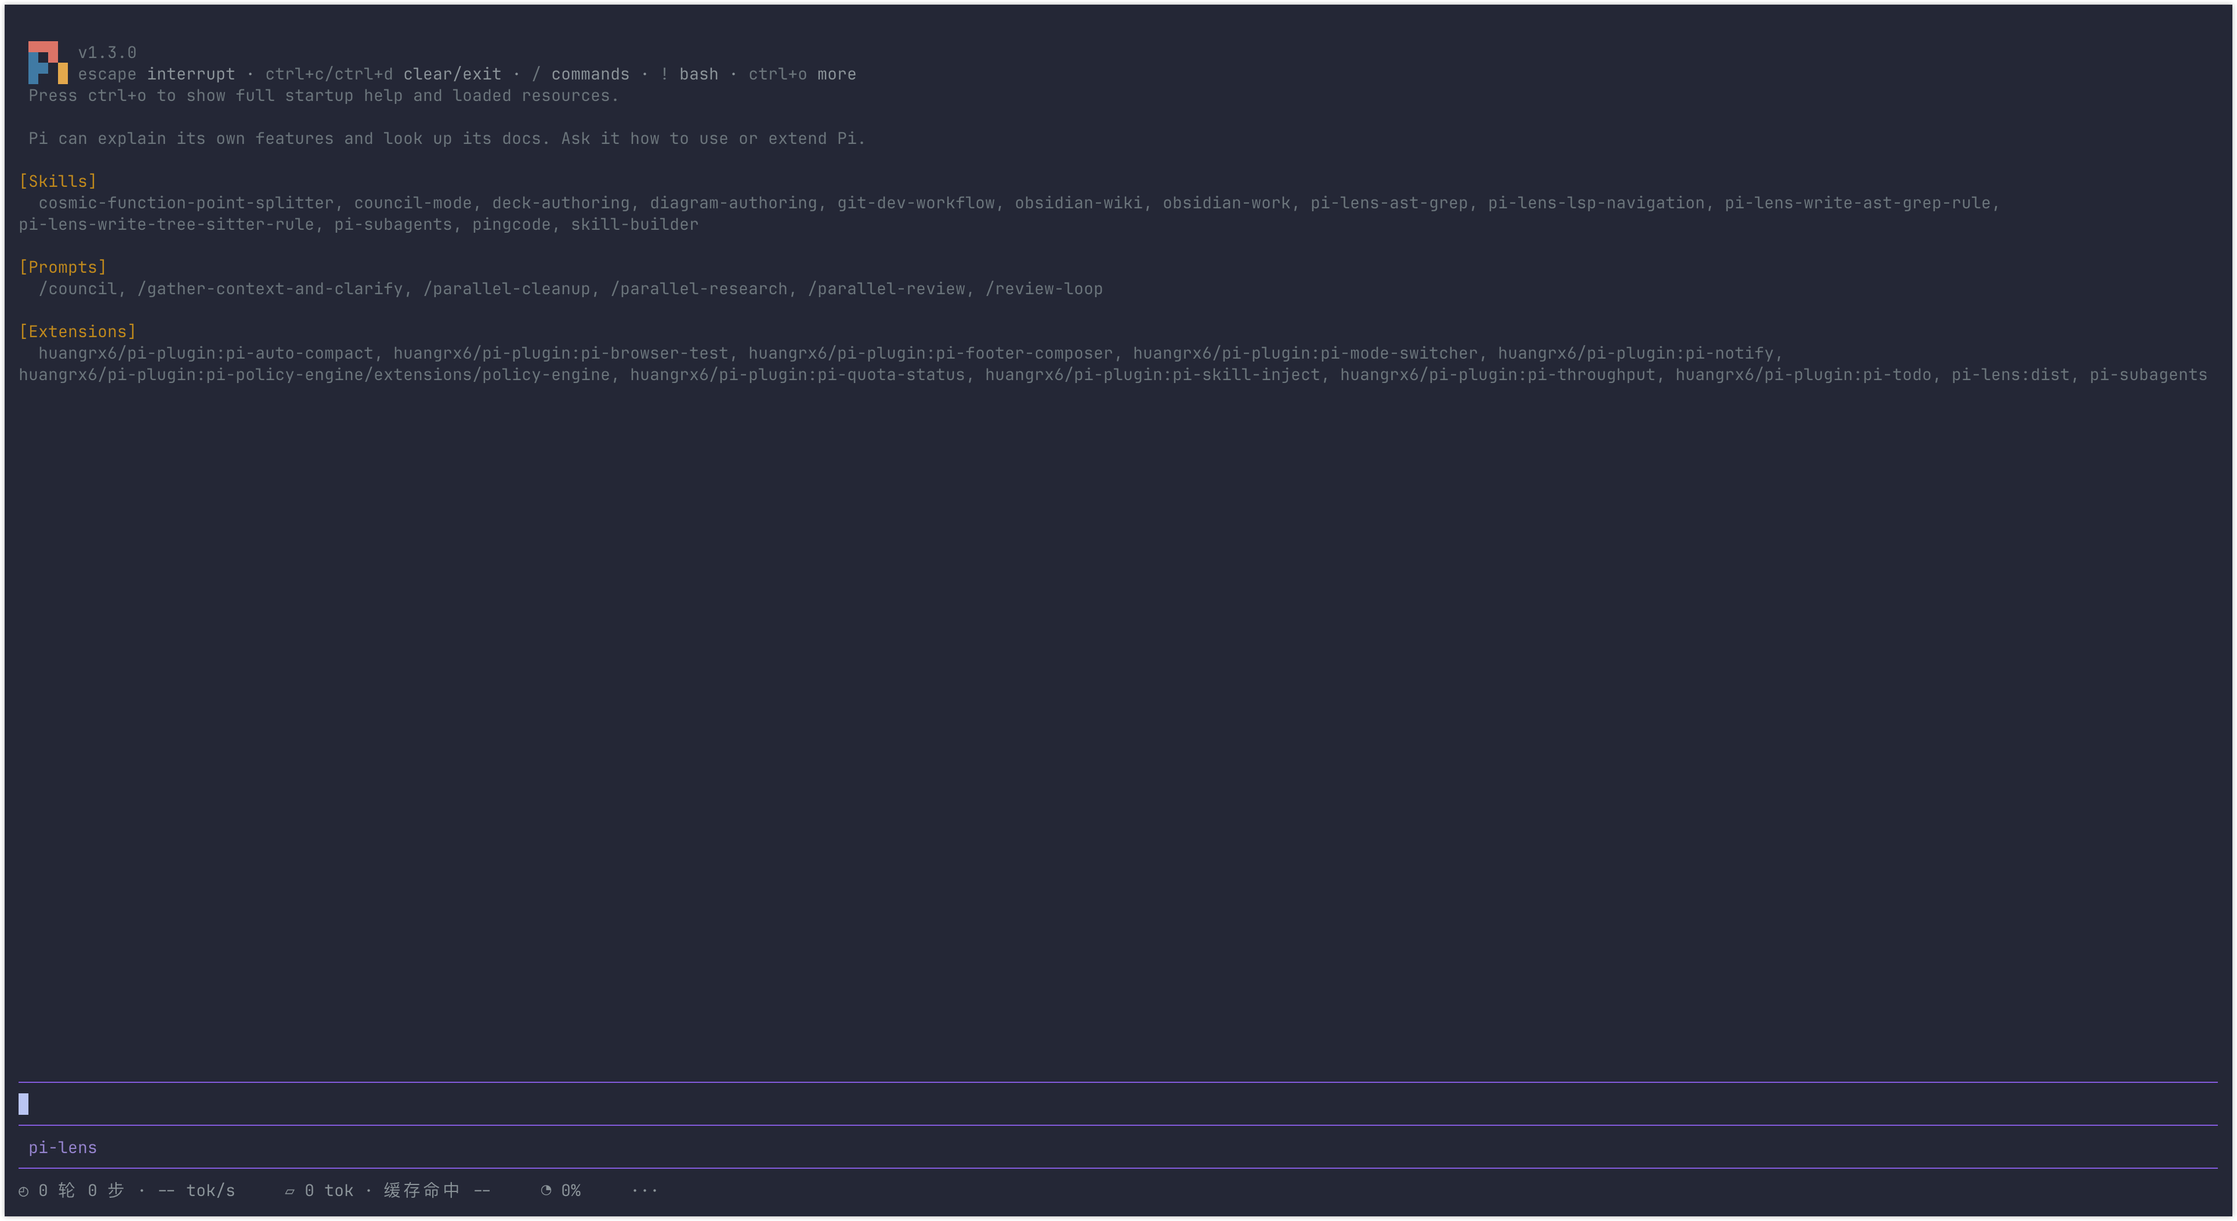
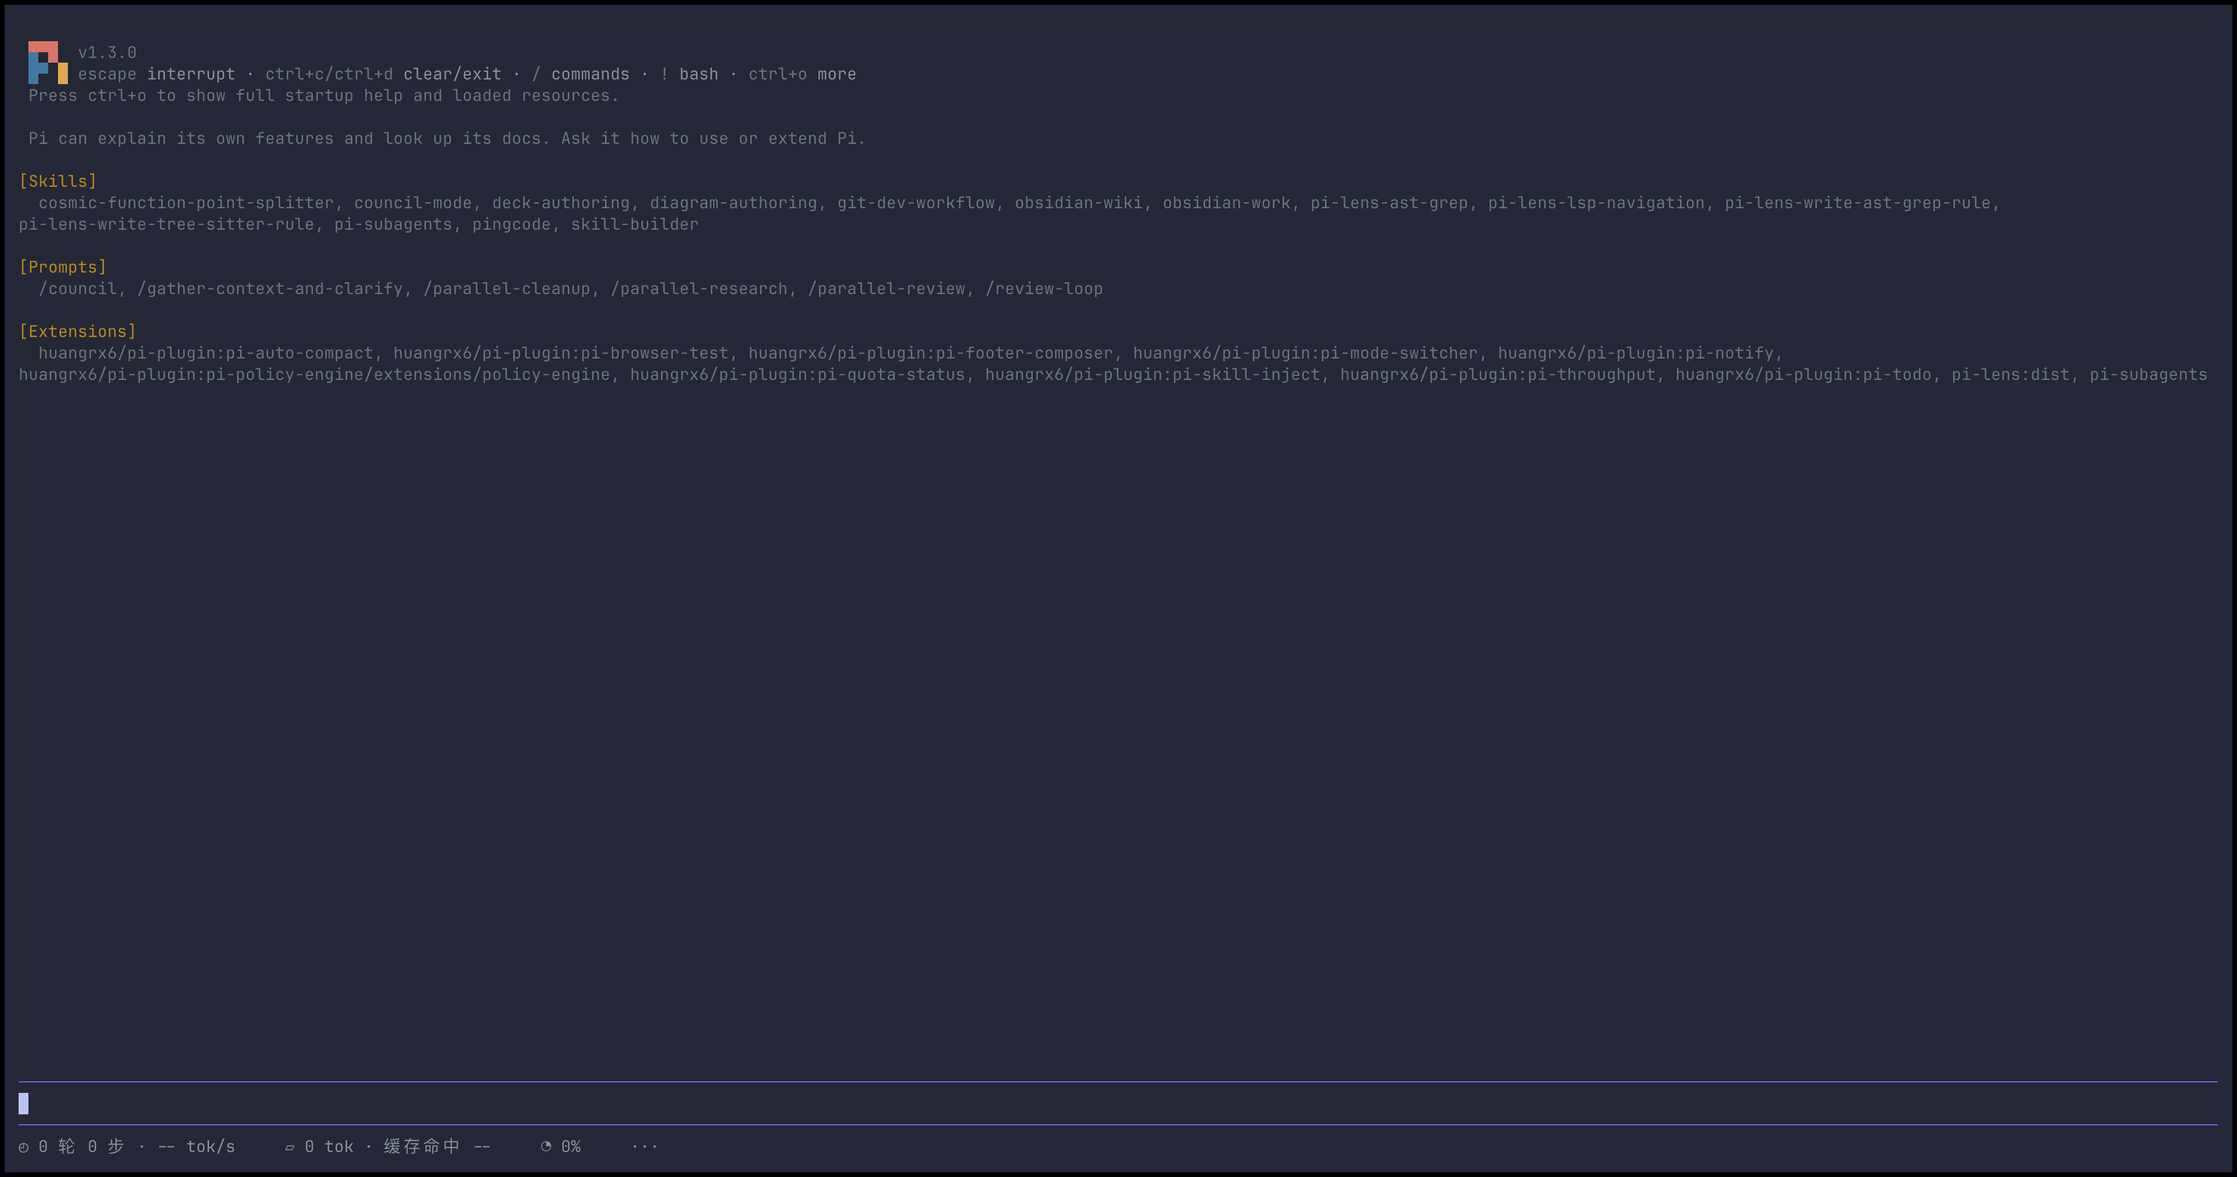
fix(pi-footer-composer): 去掉底栏多余的摘要分隔线
输入框已有同色的思考等级下边框，中间没有小部件时两条横线直接相邻，多出的一行没有意义。底栏改为单行摘要，浮层位置、点击行与外点关闭判定同步下移，底栏不再依赖 getThinkingBorderColor。

Changed region(s): [[0.0, 0.0, 1.0, 1.0], [0.6846, 0.1552, 0.8714, 0.1863], [0.9336, 0.3105, 0.9647, 0.3415]]

diff --git a/extensions/pi-footer-composer/tests/ui.test.ts b/extensions/pi-footer-composer/tests/ui.test.ts
@@ -30,13 +30,13 @@ function fakeTui() {
     focused?.handleInput?.(raw); return results;
   } };
 }
-const mouse = (x: number, type = "click", extra = {}): MouseEvent => ({ type, button: "left", x, y: 1, screenX: x, screenY: 23, ...extra });
+const mouse = (x: number, type = "click", extra = {}): MouseEvent => ({ type, button: "left", x, y: 0, screenX: x, screenY: 23, ...extra });
 
 test("independent popovers switch, toggle, close with Esc, scroll, resize, and release listeners", () => {
   const f = fakeTui(), config = defaultFooterConfig();
   config.more.sections = [{ label: "诊断", status: "diagnostics" }];
   const footer = createFooter(f.tui, theme, { getExtensionStatuses: () => new Map([["diagnostics", "error line\n".repeat(100)]]) }, config, emptySnapshot, () => assert.fail("unexpected fallback"));
-  const line = footer.render(120)[1], tokensX = visibleWidth(line.slice(0, line.indexOf("▱"))), contextX = visibleWidth(line.slice(0, line.indexOf("◔")));
+  const line = footer.render(120)[0], tokensX = visibleWidth(line.slice(0, line.indexOf("▱"))), contextX = visibleWidth(line.slice(0, line.indexOf("◔")));
   assert.deepEqual(footer.handleMouse(mouse(2, "press")), { handled: true, render: false }); assert.equal(f.overlays.length, 0);
   footer.handleMouse(mouse(2)); assert.equal(f.overlays.length, 1);
   assert.equal(f.overlays[0].options.nonCapturing, false);
@@ -50,7 +50,7 @@ test("independent popovers switch, toggle, close with Esc, scroll, resize, and r
   footer.open("more"); let card = f.overlays.at(-1); const before = card.card.render(54).join("\n");
   card.card.handleMouse(mouse(0, "wheel", { wheelDelta: 1 })); assert.notEqual(card.card.render(54).join("\n"), before);
   f.tui.terminal.columns = 32; f.tui.terminal.rows = 16; footer.render(32);
-  assert.ok(card.options.col + card.options.width <= 32); assert.ok(card.options.row + card.options.maxHeight <= 14);
+  assert.ok(card.options.col + card.options.width <= 32); assert.ok(card.options.row + card.options.maxHeight <= 15);
   assert.deepEqual(f.input("a"), [undefined]); assert.equal(f.listeners.size, 0);
   for (const extra of [{ ctrl: true }, { button: "right" }, { clickCount: 2 }]) assert.equal(footer.handleMouse(mouse(0, "click", extra)), undefined);
   footer.open("more"); footer.dispose(); assert.equal(f.listeners.size, 0); assert.equal(f.overlays.at(-1).hidden, true); assert.deepEqual(footer.render(80), []);
@@ -98,18 +98,18 @@ test("regular mode keeps command access without mouse, and older overlay APIs us
   footer.render(80); assert.equal(footer.handleMouse(mouse(2)), undefined);
   footer.open("tokens"); assert.equal(called, "Token 用量"); footer.dispose();
 });
-test("footer divider is full-width, text is flush left, and close target is centered", () => {
+test("footer summary is one flush-left row directly above the terminal bottom", () => {
   const f = fakeTui();
   const footer = createFooter(f.tui, theme, { getExtensionStatuses: () => new Map() }, defaultFooterConfig(), emptySnapshot, () => assert.fail("fallback"));
   const lines = footer.render(120);
-  assert.equal(lines.length, 2); assert.equal(lines[0], "─".repeat(120)); assert.match(lines[1], /^◴/);
-  assert.equal(footer.handleMouse(mouse(0, "click", { y: 0 })), undefined);
-  assert.equal(footer.handleMouse(mouse(0, "click", { y: 2 })), undefined);
+  assert.equal(lines.length, 1); assert.match(lines[0], /^◴/);
+  assert.equal(footer.handleMouse(mouse(0, "click", { y: 1 })), undefined);
+  assert.equal(footer.handleMouse(mouse(0, "click", { y: 4 })), undefined);
   assert.equal(footer.handleMouse(mouse(-1)), undefined);
   footer.handleMouse(mouse(0));
   const card = f.overlays.at(-1), button = panelCloseButton(card.options.width, "unicode"), close = button.column;
   assert.ok(card.options.col >= 2); assert.ok(card.options.col + card.options.width <= 118);
-  assert.ok(card.options.row + card.options.maxHeight <= 22);
+  assert.ok(card.options.row + card.options.maxHeight <= 23);
   assert.equal(card.card.handleMouse(mouse(close, "press", { y: 0 })), undefined);
   for (const dx of [-1, 0, 1, 2]) for (const dy of [-1, 0, 1]) {
     assert.equal(card.card.handleMouse(mouse(close + dx, "press", { y: 2 + dy }))?.handled, true);
@@ -160,17 +160,6 @@ test("very short terminals use the dialog instead of overlapping the footer marg
   footer.dispose();
 });
 
-test("footer divider follows the input border theme without adding empty rows", () => {
-  const f = fakeTui(), s = emptySnapshot(); s.thinking = "high";
-  let selected = "";
-  const t = { ...theme, getThinkingBorderColor: (level: string) => { selected = level; return (text: string) => `input:${text}`; } };
-  const footer = createFooter(f.tui, t, { getExtensionStatuses: () => new Map() }, defaultFooterConfig(), () => s, () => {});
-  const rows = footer.render(20);
-  assert.equal(selected, "high"); assert.equal(rows[0], `input:${"─".repeat(20)}`);
-  assert.equal(rows.length, 2); assert.ok(rows.every(Boolean));
-  footer.dispose();
-});
-
 test("growing and shrinking diagnostics preserve bounds and reset an out-of-range scroll position", () => {
   const f = fakeTui(), config = defaultFooterConfig();
   config.more.sections = [{ label: "诊断", status: "diagnostics" }];
@@ -185,7 +174,7 @@ test("growing and shrinking diagnostics preserve bounds and reset an out-of-rang
   f.tui.terminal.columns = 32; f.tui.terminal.rows = 16; footer.render(32);
   const narrow = card.card.render(card.options.width);
   assert.ok(card.options.col + card.options.width <= 30);
-  assert.ok(card.options.row >= 1 && card.options.row + narrow.length <= 14);
+  assert.ok(card.options.row >= 1 && card.options.row + narrow.length <= 15);
   assert.ok(narrow.every((line: string) => visibleWidth(line) === card.options.width));
   statuses.set("diagnostics", "LSP Active: python");
   f.tui.terminal.columns = 120; f.tui.terminal.rows = 24; footer.render(120);

diff --git a/extensions/pi-footer-composer/component.ts b/extensions/pi-footer-composer/component.ts
@@ -18,7 +18,7 @@ const PANEL_MARGIN = 2, PANEL_GAP = 0;
 const plainClick = (e: MouseEvent) => e.button === "left" && !e.shift && !e.alt && !e.ctrl && (e.clickCount ?? 1) === 1;
 export function createFooter(tui: Tui, theme: Theme, data: FooterData, config: FooterConfig, snapshot: () => Snapshot, fallback: (title: string, text: string) => void, input: InputSource = process.stdin) {
   let active: PanelId | null = null, hits: Hit[] = [], disposed = false, scroll = 0, maxOffset = 0;
-  let columns = tui.terminal?.columns ?? 80, bottomInset = 0, summaryRow = 1, footerHeight = 2;
+  let columns = tui.terminal?.columns ?? 80, bottomInset = 0, footerHeight = 1;
   let overlay: ReturnType<NonNullable<Tui["showOverlay"]>> | undefined, unlisten: (() => void) | undefined, unobserve: (() => void) | undefined;
   let generation = 0;
   const hasRoom = (w: number, h: number) => w >= 18 + 2 * PANEL_MARGIN && h - footerHeight - PANEL_GAP - 1 >= PANEL_MIN_HEIGHT + 1;
@@ -82,7 +82,8 @@ export function createFooter(tui: Tui, theme: Theme, data: FooterData, config: F
       // A host callback can switch the card during this same stdin emission.
       if (!active || opened !== generation) return;
       if (event.type === "blur") { close(); return; }
-      const footerY = (tui.terminal?.rows ?? 24) - bottomInset - footerHeight + summaryRow;
+      // The summary is the only footer row, directly under the editor's bottom border.
+      const footerY = (tui.terminal?.rows ?? 24) - bottomInset - footerHeight;
       if (event.y === footerY && hits.some(hit => event.x >= hit.x && event.x < hit.x + hit.width)) return;
       const bounds = overlay?.getBounds?.() ?? { row: options.row, col: options.col, width: options.width, height: options.maxHeight };
       if (event.x < bounds.col || event.x >= bounds.col + bounds.width || event.y < bounds.row || event.y >= bounds.row + bounds.height) close();
@@ -102,21 +103,16 @@ export function createFooter(tui: Tui, theme: Theme, data: FooterData, config: F
     render(width: number) {
       if (disposed || width <= 0) return [];
       columns = width;
-      summaryRow = (tui.terminal?.rows ?? 24) >= 8 ? 1 : 0;
-      footerHeight = 1 + summaryRow;
       const result = summary(snapshot(), config, width, active, theme);
       hits = result.hits;
       if (active) place();
-      if (!summaryRow) return [result.line];
-      const rule = (config.icons === "ascii" ? "-" : "─").repeat(width);
-      const divider = theme.getThinkingBorderColor
-        ? theme.getThinkingBorderColor(snapshot().thinking || "off")(rule)
-        : theme.fg("border", rule);
-      return [divider, result.line];
+      // The editor already draws its bottom border in the thinking color; a second
+      // rule here would duplicate that line whenever no widget sits in between.
+      return [result.line];
     },
     invalidate() {},
     handleMouse(event: MouseEvent): MouseResult {
-      if (disposed || tui.mode === "regular" || event.y !== summaryRow || !plainClick(event)) return undefined;
+      if (disposed || tui.mode === "regular" || event.y !== 0 || !plainClick(event)) return undefined;
       const hit = hits.find(hit => event.x >= hit.x && event.x < hit.x + hit.width);
       if (!hit) return undefined;
       if (event.type === "press") return { handled: true, render: false };

diff --git a/extensions/pi-footer-composer/render.ts b/extensions/pi-footer-composer/render.ts
@@ -7,7 +7,6 @@ type Rgb = { kind: "rgb"; r: number; g: number; b: number };
 export type Theme = {
   fg(color: string, text: string): string;
   bold?(text: string): string;
-  getThinkingBorderColor?(level: string): (text: string) => string;
   appearance?: "dark" | "light";
   style?(text: string, options: { bg?: Rgb; fg?: Rgb }): string;
 };

diff --git a/extensions/pi-footer-composer/DESIGN.md b/extensions/pi-footer-composer/DESIGN.md
@@ -28,7 +28,7 @@ TPS 使用同一批成功且上报输出数、具有首内容计时的记录做 
 
 按摘要段的显示列生成点击范围，普通左键按下只认领目标，click 再切换卡片。双击、拖动、修饰键点击不切换。卡片打开时临时捕获键盘焦点，通过自身 `handleInput` 处理 Esc，兼容普通转义码、Kitty CSI-u 与 xterm 增强编码，忽略按键释放。编辑输入监听先关闭卡片、恢复宿主原有焦点，再让同一次输入继续分发到编辑器。Esc 不再依赖全局旁观监听关闭，避免进入编辑器的中断动作；面板关闭后的正常中断行为不变。关闭、重载或释放时移除所有监听。卡片内普通文本保留宿主选择行为，滚轮只滚动卡片。
 
-浮层位于入口上方，超出右边界时向左移动；缩放后重新计算宽度、位置与可见行。布局测量包含行间空白、面板上下留白及“分隔线 + 摘要”两行底栏；点击按摘要实际所在行定位，关闭按钮使用同一份标题行坐标。标题与关闭符号使用相同字重；较小的全角 `ｘ` 占两列，右边缘与正文数值列对齐，ASCII 模式回退单列 `x`。渲染与命中共用符号宽度和坐标，点击范围向四周各扩一字符，字号由终端字体统一决定。浮层的显示、切换和隐藏只请求差量重绘，不调用 `requestRender(true)`：隐藏区域由宿主恢复，避免无关图片被整屏清理。尚未打开时调用关闭不会触发重绘。浮层与终端侧边、顶部保持间隔，下沿紧邻底栏分隔线；摘要从首列开始，不增加上下空行。分隔线优先使用公开的 `getThinkingBorderColor()`，与输入框主题一致。终端过小时使用宿主详情对话框；缺少浮层或输入监听 API 时也回退。
+浮层位于入口上方，超出右边界时向左移动；缩放后重新计算宽度、位置与可见行。布局测量包含行间空白、面板上下留白及单行底栏；点击按摘要实际所在行定位，关闭按钮使用同一份标题行坐标。标题与关闭符号使用相同字重；较小的全角 `ｘ` 占两列，右边缘与正文数值列对齐，ASCII 模式回退单列 `x`。渲染与命中共用符号宽度和坐标，点击范围向四周各扩一字符，字号由终端字体统一决定。浮层的显示、切换和隐藏只请求差量重绘，不调用 `requestRender(true)`：隐藏区域由宿主恢复，避免无关图片被整屏清理。尚未打开时调用关闭不会触发重绘。浮层与终端侧边、顶部保持间隔，下沿紧邻底栏；摘要从首列开始，不增加上下空行。终端过小时使用宿主详情对话框；缺少浮层或输入监听 API 时也回退。
 
 全屏宿主在扩展输入监听之前消费鼠标与焦点报告，因此仅在卡片打开时通过公开的 `process.stdin` 数据事件旁观 TTY 输入。普通左键在卡片边界外按下，或终端上报失焦时，收起卡片；卡片内点击与底栏入口交给宿主继续处理。边界优先采用浮层公开的 `getBounds()`，旧 API 回退已计算的布局。观察器处理分包、连续报告与粘贴边界，不把粘贴内容识别为点击；不消费输入、不修改终端模式、不替换或重排宿主监听。切换卡片后旧回调通过代次检查失效，避免同一次输入把新卡片关掉。
 

diff --git a/extensions/pi-footer-composer/CONFIG.md b/extensions/pi-footer-composer/CONFIG.md
@@ -41,7 +41,7 @@
 
 `hidden: true` 隐藏该状态，并阻止它从未映射项中重复出现。配置只决定展示，不删除公开状态，也不影响发布者。上游的颜色与终端控制符被移除，多行文本保留并折行，长文本优先沿空白和分隔符换行；长内容可以滚动，不永久截断。显式开启 `includeUnmapped` 时，内容统一归入“其他”，不把原始 key 当作标题。
 
-面板默认宽 60 列，左右内边距为 3 列，顶部、底部及字段之间留一行空白。短记录与额度续项共用右边界；长段落在右侧内容区连续折行，各续行左沿一致，不在自动换行之间插入空白。逗号、中文顿号和分号可作为列表换行点；单个超长名称按完整字素折行。底栏为分隔线与靠左摘要两行，上下不额外留空白；浮层紧邻底栏分隔线，终端侧边与顶部继续保留边距。关闭按钮使用较小的全角 `ｘ`，保持标题字重，右边缘与正文数值列对齐；ASCII 模式使用 `x`。符号周围各扩展一列、一行作为点击区域。Esc、普通左键点击面板外、继续编辑或终端上报失焦时也会关闭，不改变配置。
+面板默认宽 60 列，左右内边距为 3 列，顶部、底部及字段之间留一行空白。短记录与额度续项共用右边界；长段落在右侧内容区连续折行，各续行左沿一致，不在自动换行之间插入空白。逗号、中文顿号和分号可作为列表换行点；单个超长名称按完整字素折行。底栏只有一行靠左摘要，直接用于输入框下边框；浮层紧邻这一行，终端侧边与顶部继续保留边距。关闭按钮使用较小的全角 `ｘ`，保持标题字重，右边缘与正文数值列对齐；ASCII 模式使用 `x`。符号周围各扩展一列、一行作为点击区域。Esc、普通左键点击面板外、继续编辑或终端上报失焦时也会关闭，不改变配置。
 
 面板默认使用适配深浅主题的中性灰背景，避免借用消息区域的强调色。标签与数值分开着色，选中入口只提亮文字；旧宿主缺少颜色样式接口时采用终端默认背景。
 

diff --git a/extensions/pi-footer-composer/CHANGELOG.md b/extensions/pi-footer-composer/CHANGELOG.md
@@ -1,5 +1,11 @@
 # Changelog
 
+## 5.1.8 - 2026-10-26
+
+- 底栏去掉摘要上方那条分隔线。输入框本身已用思考等级边框色画了下边框；中间没有插件小部件时，两条同色横线紧挨着出现，多出的一行没有意义。
+- 摘要直接贴在输入框下边框下方，底栏变成单行；浮层位置、点击行号与外点关闭的行判定同步下移一行，短终端不再为此提前退成对话框。
+- 底栏不再读取思考等级边框色，移除对应的主题依赖和回归测试；README、配置参考与设计说明同步为单行底栏。
+
 ## 5.1.7 - 2026-10-22
 
 - 输出速度改为首个非空内容增量到响应结束的 `Σ输出 / Σ生成时长`，扣除每次请求的首 Token 等待；摘要与会话统计共用此口径，保存的历史计时恢复后自动重算。

diff --git a/extensions/pi-footer-composer/README.md b/extensions/pi-footer-composer/README.md
@@ -2,7 +2,7 @@
 
 把会话统计、Token 用量和上下文占用收进一行底栏，需要时点击查看详情。同一时间只展开一张卡片，日常保持简洁。
 
-摘要靠左，上方是一条与输入框同主题的分隔线，常规终端共占两行：
+摘要靠左，紧贴输入框下边框，只占一行：
 
 ```text
 ◴ 1 轮 77 步 · 249 tok/s     ▱ 7.3M tok · 缓存命中 99%     ◔ 16%     ···
